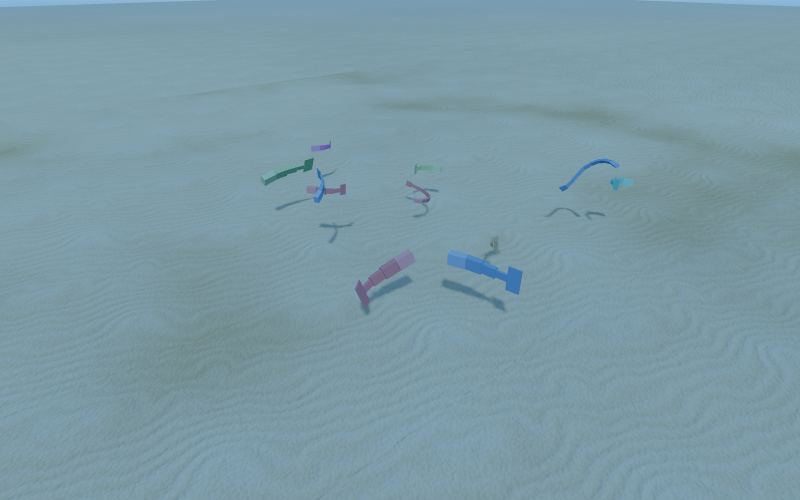
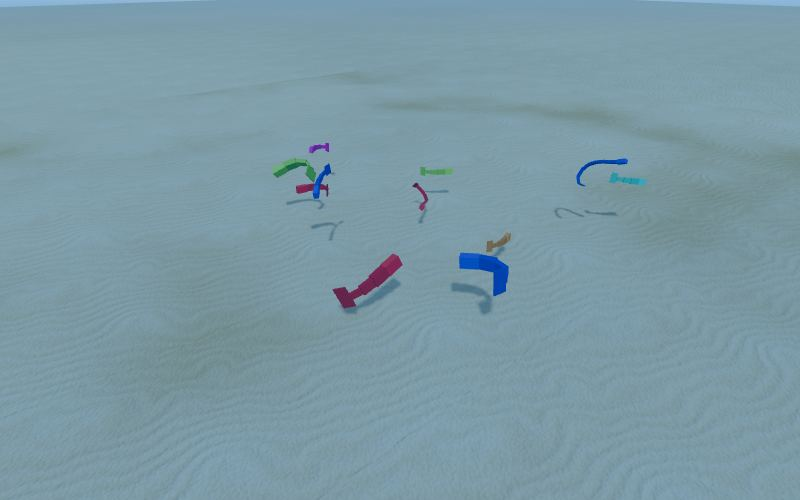
Creature default colors are bolder: HSL was being read as linear and came out pale
Claude-Session: https://claude.ai/code/session_01Uuc6dwJ5Bjk5VjRCLHRDrp

diff --git a/packages/view/src/rigid-view.ts b/packages/view/src/rigid-view.ts
@@ -131,7 +131,7 @@ export class RigidView {
     for (let i = 0; i < this.capacity; i++) {
       // parts without a color take a hue from their creature, so you can tell individuals apart
       if (part.color) this.tmpC.set(part.color)
-      else this.tmpC.setHSL((i * 0.618034) % 1, 0.55, k === 0 ? 0.55 : 0.4)
+      else this.tmpC.setHSL((i * 0.618034) % 1, 0.85, k === 0 ? 0.52 : 0.42, THREE.SRGBColorSpace) // (HSL is an sRGB idea: read as linear it comes out pale)
       mesh.instanceColor.setXYZ(i, this.tmpC.r, this.tmpC.g, this.tmpC.b)
     }
     mesh.count = 0
